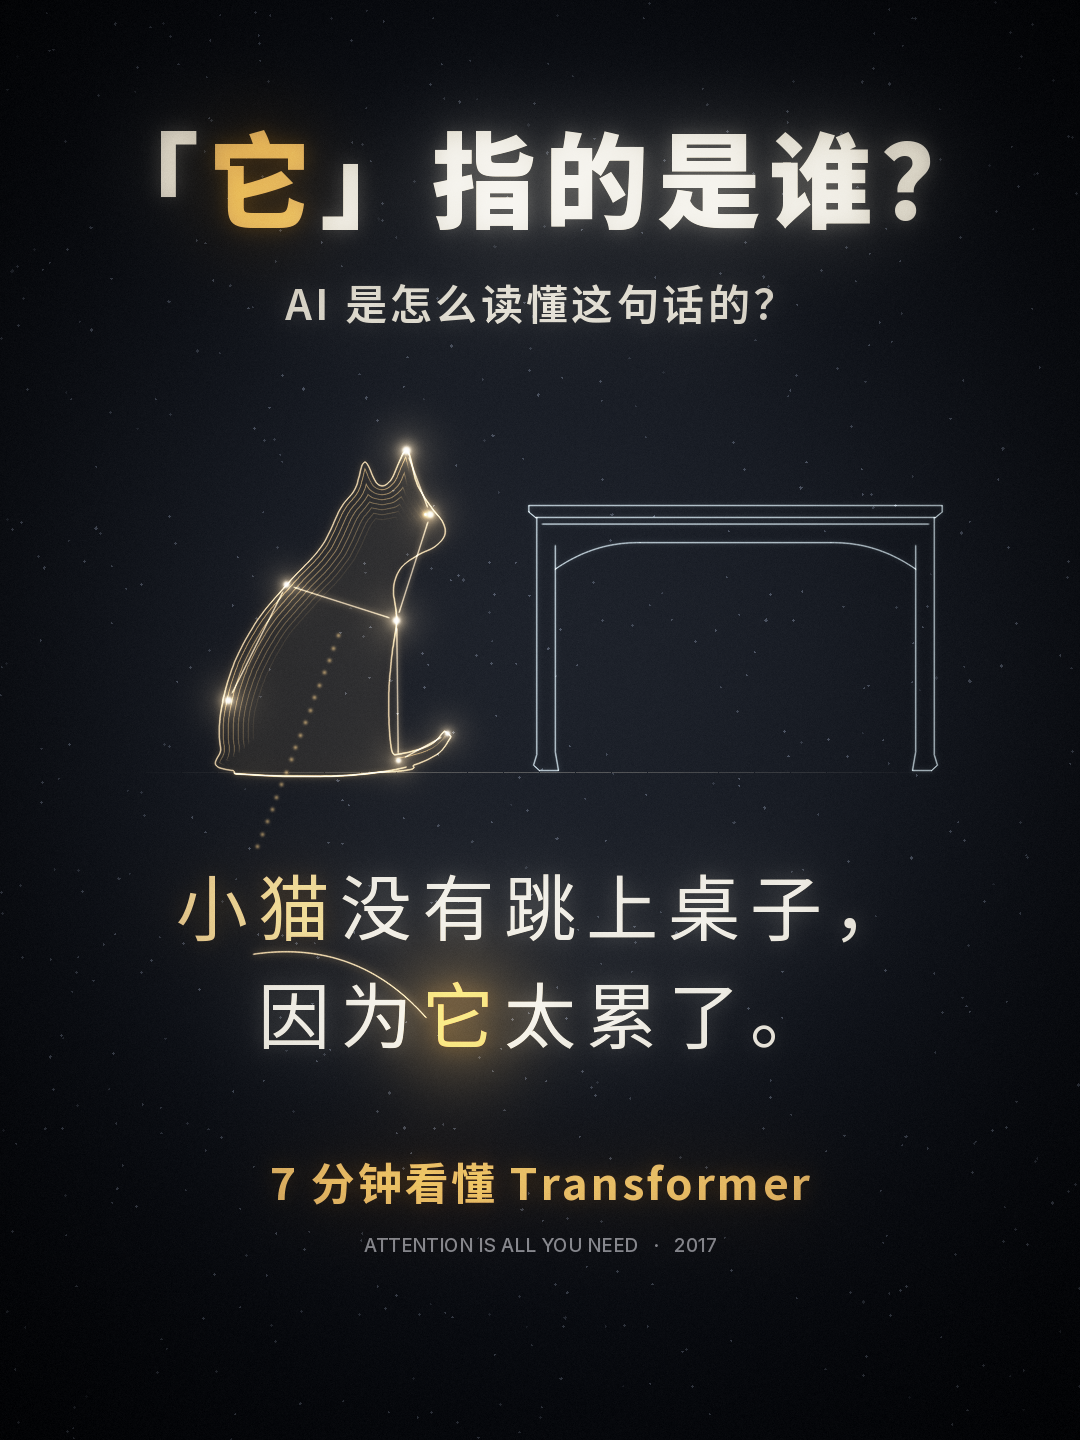
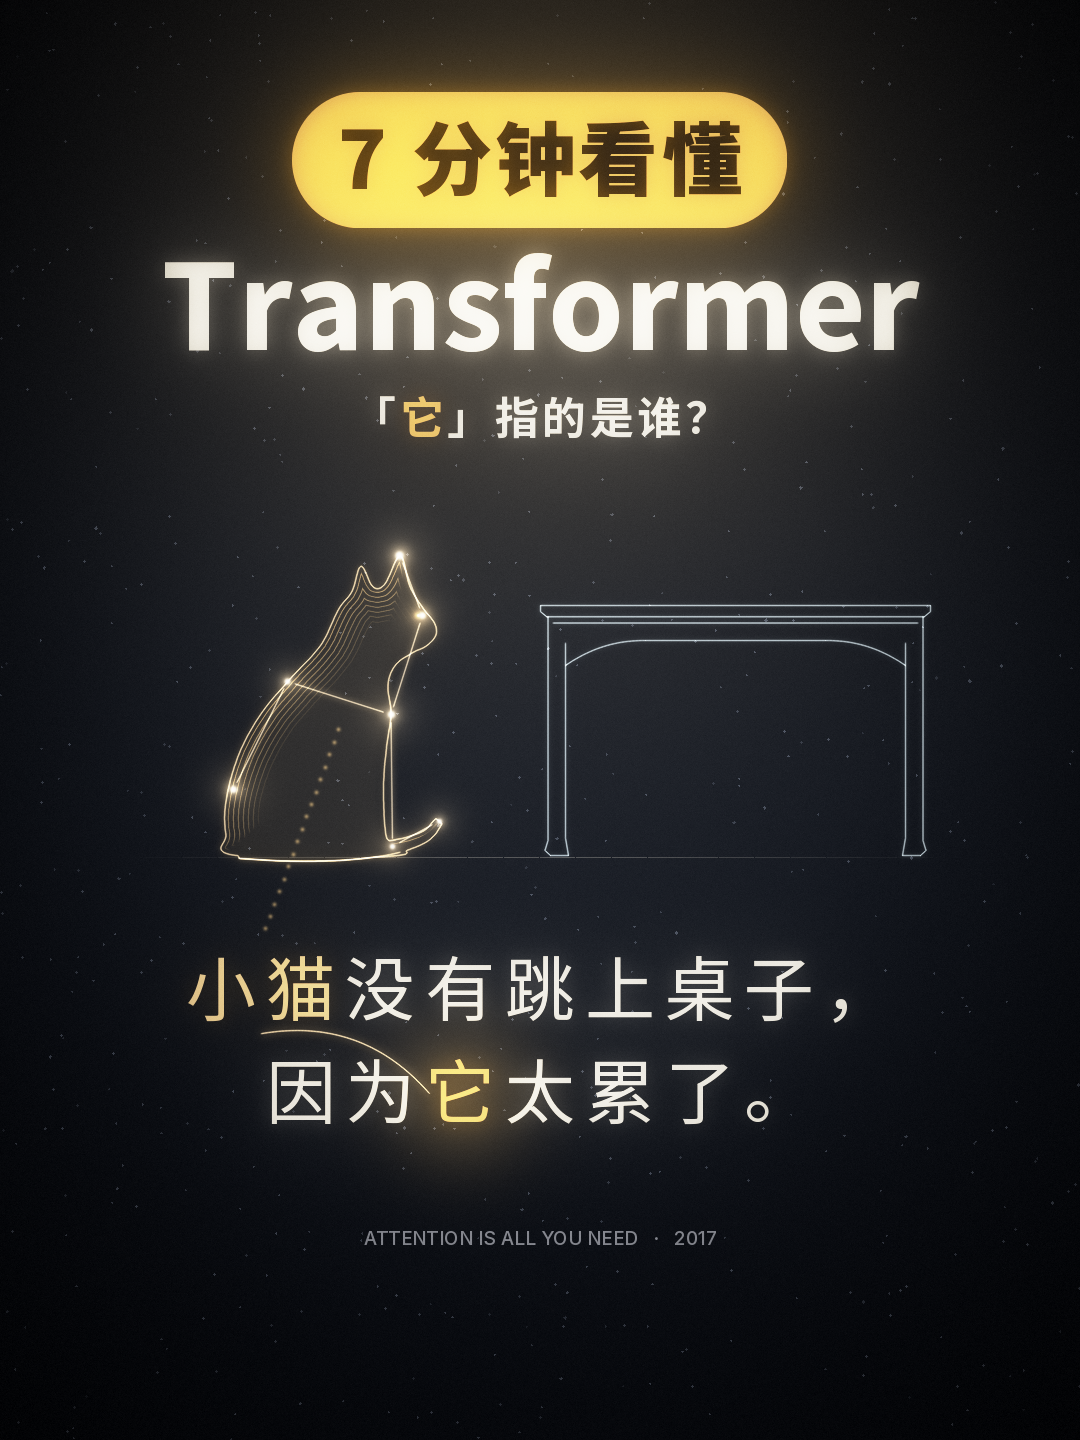
Attention film: covers lead with 7 分钟看懂 Transformer
A gold badge for 7 分钟看懂, Transformer large beneath it, and the question
「它」指的是谁？ as the supporting line over the opening plate.

Claude-Session: https://claude.ai/code/session_0113zKuuS17ZMkgC3Ui1YGhR

Changed region(s): [[0.1222, 0.0, 0.8861, 0.875], [0.7639, 0.6875, 0.7944, 0.7188]]

diff --git a/attention-video/poster.py b/attention-video/poster.py
@@ -52,9 +52,37 @@ def finish(F, path):
     print("wrote", path, out.shape[1], "x", out.shape[0])
 
 
-def headline(F, y, size=110):
-    """「它」指的是谁？ - a question, readable as a thumbnail, with no formula and no big claims."""
-    ST.punch(F, "「它」指的是谁？", W / 2, y, 10.0, 0.0, size=size, wght=900, gold=(1,))
+INK = np.array([0.035, 0.045, 0.075], np.float32)
+
+
+def badge(F, text, cx, y, size=88, pad_x=46, pad_y=26):
+    """Dark text on a solid gold pill - the line that has to be read first."""
+    tx = zh(text, size, 900, 0.04)
+    w = int(tx.width + 2 * pad_x)
+    h = int(size * 1.05 + 2 * pad_y)
+    r = h // 2
+    ss = 4
+    m = np.zeros((h * ss, w * ss), np.uint8)
+    cv2.rectangle(m, (r * ss, 0), ((w - r) * ss, h * ss - 1), 255, -1)
+    cv2.circle(m, (r * ss, r * ss), r * ss, 255, -1, cv2.LINE_AA)
+    cv2.circle(m, ((w - r) * ss, r * ss), r * ss, 255, -1, cv2.LINE_AA)
+    m = cv2.resize(m.astype(np.float32) / 255, (w, h), interpolation=cv2.INTER_AREA)
+    x0, y0 = cx - w / 2, y - h / 2
+    add_sprite(F, cx, y, w * 0.55, GOLD, 0.18)
+    ST.blend(F, m, x0, y0, GOLD, 1.0)
+    tx.draw(F, cx, y + size * 0.36, INK, 1.0, align="center")
+    return h
+
+
+def headline(F, y, badge_size=88, title_size=132, q_size=48, gap=None):
+    """7 分钟看懂 / Transformer / 「它」指的是谁？"""
+    h = badge(F, "7 分钟看懂", W / 2, y, badge_size)
+    ty = y + h / 2 + title_size * 1.02
+    ST.punch(F, "Transformer", W / 2, ty, 10.0, 0.0, size=title_size, wght=800, tracking=0.0)
+    ST.add_sprite(F, W / 2, ty - title_size * 0.35, title_size * 2.4, GOLD, 0.05)
+    qy = ty + q_size * 1.9
+    ST.punch(F, "「它」指的是谁？", W / 2, qy, 10.0, 0.0, size=q_size, wght=700, gold=(1,))
+    return qy
 
 
 def scene(F, ground, y1, y2, s_cat=340, s_table=280, size=76):
@@ -77,11 +105,9 @@ def scene(F, ground, y1, y2, s_cat=340, s_table=280, size=76):
 
 def cover():
     F = canvas()
-    add_sprite(F, W / 2, 820, 440, GOLD, 0.08)
-    headline(F, 360)
-    zh("AI 是怎么读懂这句话的？", 46, 600, 0.08).draw(F, W / 2, 470, IVORY, 0.9, align="center")
-    scene(F, 950, 1120, 1232)
-    zh("7 分钟看懂 Transformer", 46, 700, 0.06).draw(F, W / 2, 1395, GOLD, 1.0, align="center")
+    add_sprite(F, W / 2, 860, 440, GOLD, 0.07)
+    headline(F, 300)
+    scene(F, 1050, 1215, 1327)
     caps("ATTENTION IS ALL YOU NEED   ·   2017", 20, 0.4).draw(F, W / 2, 1450, DIM, 1.0, align="center")
     finish(F, "cover-9x16.png")
 
@@ -89,12 +115,10 @@ def cover():
 def portrait():
     ST.E.H = 1440                     # the engine clips drawing to its frame size
     F = canvas(1440, seed=5)
-    add_sprite(F, W / 2, 640, 400, GOLD, 0.08)
-    headline(F, 220, size=104)
-    zh("AI 是怎么读懂这句话的？", 42, 600, 0.08).draw(F, W / 2, 320, IVORY, 0.9, align="center")
-    scene(F, 770, 935, 1043, s_cat=320, s_table=265, size=72)
-    zh("7 分钟看懂 Transformer", 44, 700, 0.06).draw(F, W / 2, 1200, GOLD, 1.0, align="center")
-    caps("ATTENTION IS ALL YOU NEED   ·   2017", 19, 0.4).draw(F, W / 2, 1252, DIM, 1.0, align="center")
+    add_sprite(F, W / 2, 700, 400, GOLD, 0.07)
+    headline(F, 160, badge_size=80, title_size=120, q_size=44)
+    scene(F, 855, 1015, 1118, s_cat=300, s_table=250, size=70)
+    caps("ATTENTION IS ALL YOU NEED   ·   2017", 19, 0.4).draw(F, W / 2, 1245, DIM, 1.0, align="center")
     finish(F, "poster-3x4.png")
     ST.E.H = H
 
